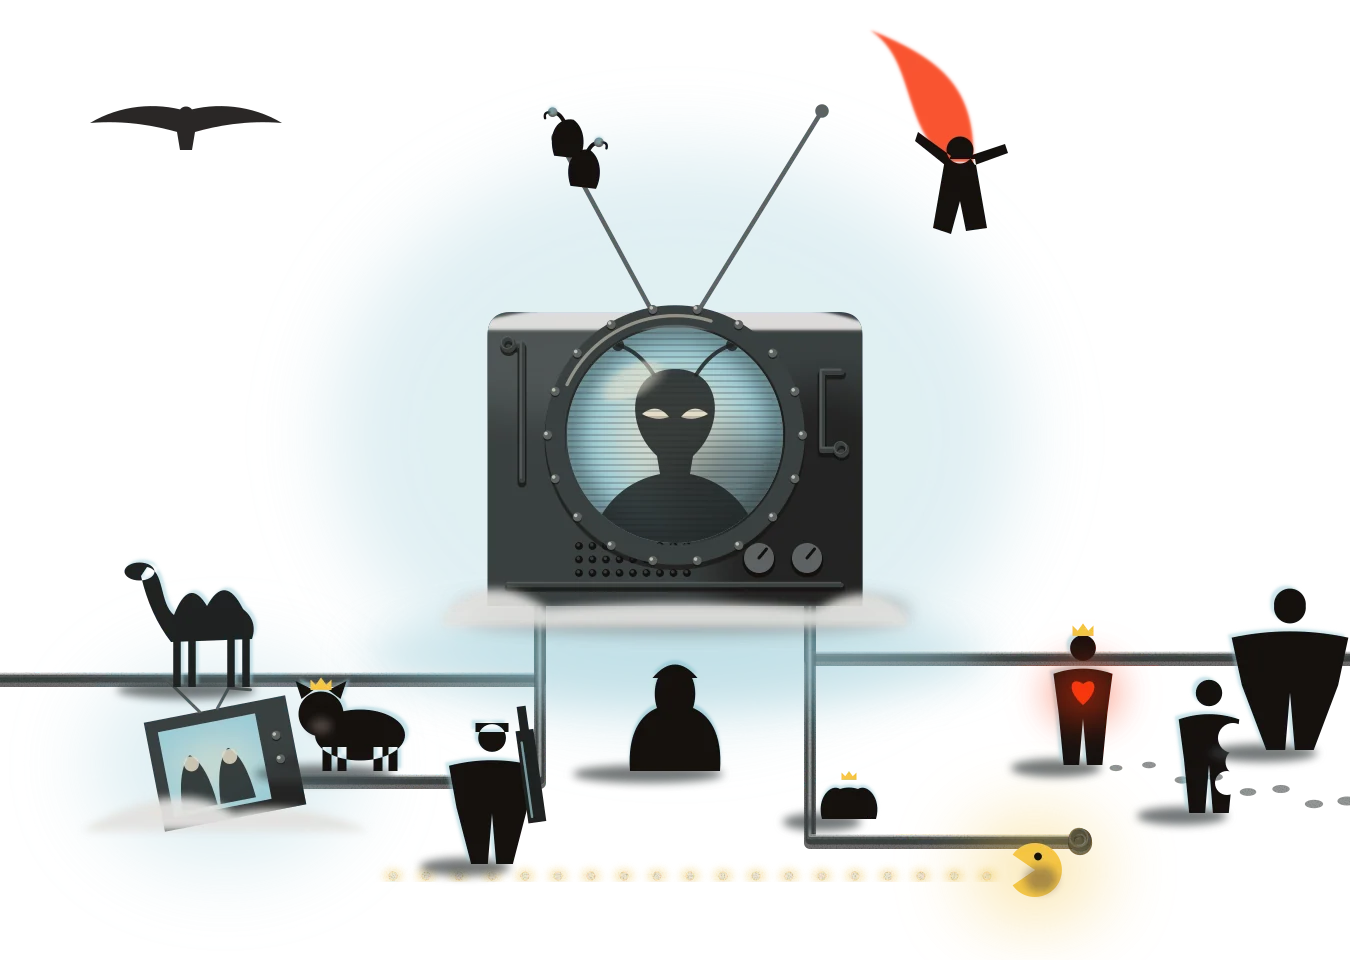
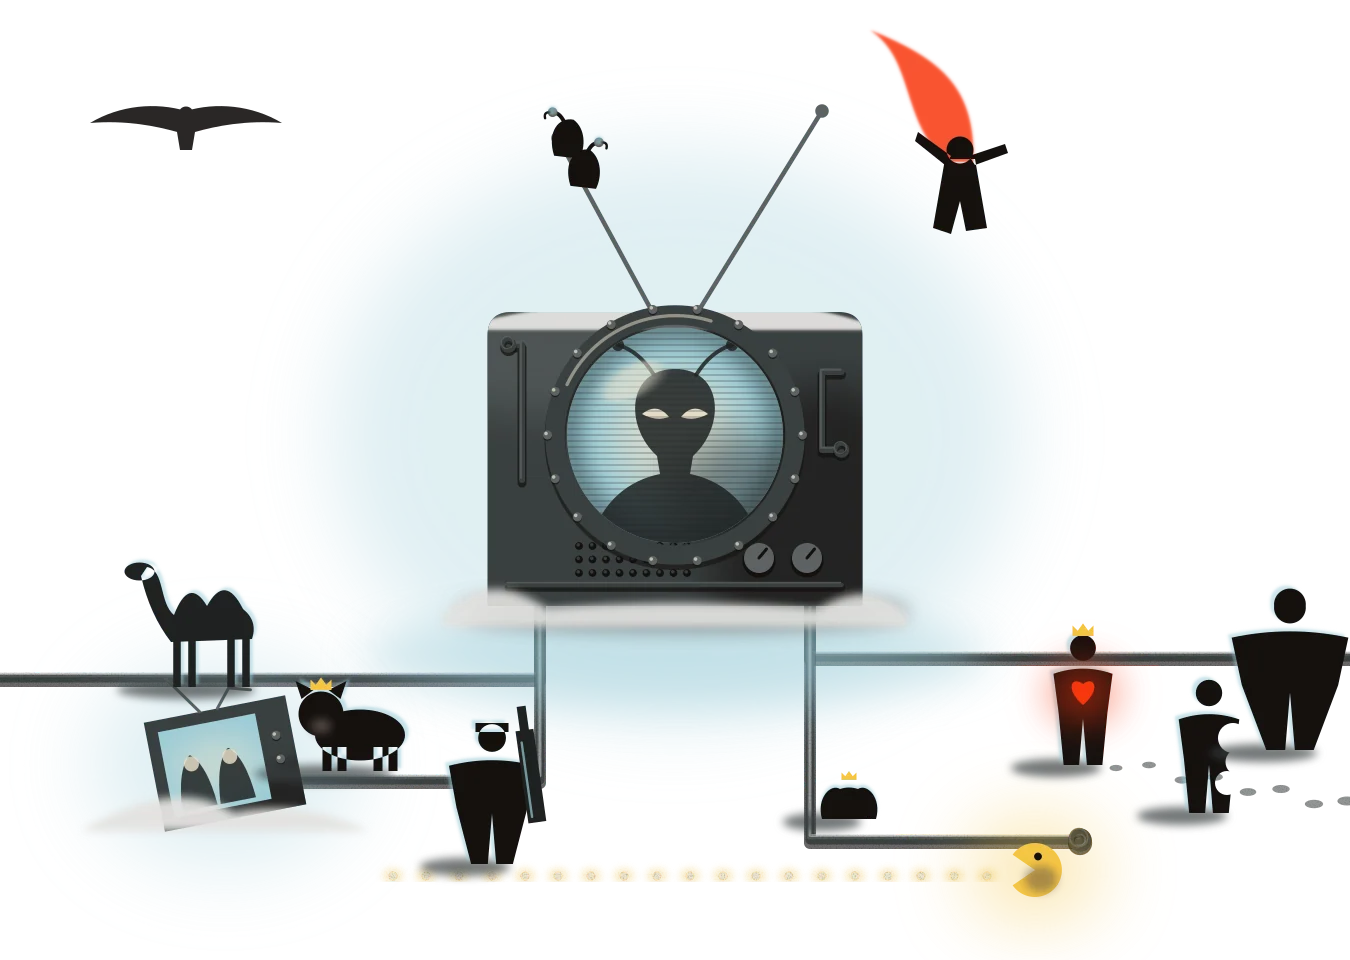
Cybersiberia deja de pintar al capitán Buscapina: ahora se sienta el títere
Se borra la silueta de espaldas (y su sombra) de cyberPiso y se reimprimen el
piso del recinto y el del camino.

Changed region(s): [[0.4044, 0.6875, 0.56, 0.8438]]

diff --git a/src/lib/bestiario/arte-entornos.ts b/src/lib/bestiario/arte-entornos.ts
@@ -995,7 +995,6 @@ function cyberPiso(ancho = ANCHO, alto = ALTO): string {
 
   const o = OJOS_DE_CYBERSIBERIA;
   const at = (id: string): [number, number] => [X(o[id]![0]), o[id]![1]];
-  const [bx, by] = [X(COSAS_DE_CYBERSIBERIA['el-capitan-buscapina']![0]), COSAS_DE_CYBERSIBERIA['el-capitan-buscapina']![1]];
   const [gax, gay] = at('el-rey-garufa');
   const [wx, wy] = at('super-walter');
   const [cbx, cby] = at('comboman');
@@ -1006,12 +1005,8 @@ function cyberPiso(ancho = ANCHO, alto = ALTO): string {
   const [spx, spy] = at('el-super-boca');
   const [gvx, gvy] = [X(COSAS_DE_CYBERSIBERIA['el-gavilan']![0]), COSAS_DE_CYBERSIBERIA['el-gavilan']![1]];
 
-  // El capitán Buscapina, de espaldas, sentado en la nieve frente a la tele, con la gorra puesta.
-  const buscapina =
-    `M${f(bx - 30)} ${f(by + 40)} C${f(bx - 32)} ${f(by + 14)} ${f(bx - 22)} ${f(by + 2)} ${f(bx - 12)} ${f(by - 2)} ` +
-    `C${f(bx - 16)} ${f(by - 14)} ${f(bx - 12)} ${f(by - 30)} ${f(bx)} ${f(by - 30)} C${f(bx + 12)} ${f(by - 30)} ${f(bx + 16)} ${f(by - 14)} ${f(bx + 12)} ${f(by - 2)} ` +
-    `C${f(bx + 22)} ${f(by + 2)} ${f(bx + 32)} ${f(by + 14)} ${f(bx + 30)} ${f(by + 40)} Z ` +
-    `M${f(bx - 15)} ${f(by - 22)} Q${f(bx)} ${f(by - 40)} ${f(bx + 15)} ${f(by - 22)} Z`;
+  // El capitán Buscapina ya no se pinta acá: es un títere del elenco (`arte-buscapina.ts`), sentado
+  // en este mismo charco de luz.
   const garufa = parado(gax, gay, 78);
   const sapo = `M${f(sx - 18)} ${f(sy + 16)} C${f(sx - 22)} ${f(sy + 2)} ${f(sx - 12)} ${f(sy - 8)} ${f(sx - 6)} ${f(sy - 4)} Q${f(sx)} ${f(sy - 6)} ${f(sx + 6)} ${f(sy - 4)} C${f(sx + 12)} ${f(sy - 8)} ${f(sx + 22)} ${f(sy + 2)} ${f(sx + 18)} ${f(sy + 16)} Z`;
   const chancho = circulo(px, py + 4, 15) + ` ${elipse(px + 26, py + 18, 30, 17)} M${f(px - 13)} ${f(py - 6)} l-4 -12 l12 6 Z M${f(px + 13)} ${f(py - 6)} l4 -12 l-12 6 Z` +
@@ -1045,7 +1040,6 @@ function cyberPiso(ancho = ANCHO, alto = ALTO): string {
     sombraEnLaNieve(px + 20, py + 42, 46) + canto(chancho, 2.5, -2) + forma(chancho, C.negro) + corona(px, py - 12, 7) + nube(px, py + 12, 7, 5, C.oxido, 's', 0.8) +
     sombraEnLaNieve(dx, dy + 84, 30) + canto(robot, -2.5, -2) + forma(robot, C.negro) +
     `<g transform="rotate(-8 ${f(dx + 30)} ${f(dy + 40)})">` + forma(caja(dx + 22, dy - 6, 12, 62), C.hondo) + forma(caja(dx + 25, dy - 22, 6, 18), C.hondo) + trazo(`M${f(dx + 25)} ${f(dy + 2)} L${f(dx + 25)} ${f(dy + 52)}`, C.lente, 1.6, 0.7) + `</g>` +
-    sombraEnLaNieve(bx, by + 40, 50) + canto(buscapina, 0, -3, 0.8) + forma(buscapina, C.negro) +
     sombraEnLaNieve(sx, sy + 16, 26) + canto(sapo, 0, -2) + forma(sapo, C.negro) + corona(sx, sy - 10, 5) +
     sombraEnLaNieve(gax, gay + 78, 30) + canto(garufa, -2.5, -2) + forma(garufa, C.negro) + corona(gax, gay - 8, 7) +
     nube(gax, gay + 30, 22, 18, C.rojo, 'l', 0.6) + forma(`M${f(gax)} ${f(gay + 38)} C${f(gax - 12)} ${f(gay + 28)} ${f(gax - 8)} ${f(gay + 18)} ${f(gax)} ${f(gay + 24)} C${f(gax + 8)} ${f(gay + 18)} ${f(gax + 12)} ${f(gay + 28)} ${f(gax)} ${f(gay + 38)} Z`, C.rojo) +
